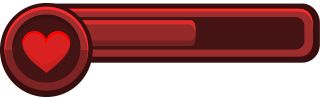
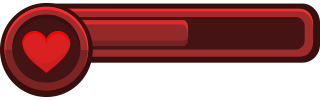
Jump. Variables. Damage. Health. Gordimetro

Changed region(s): [[0.5625, 0.18, 0.625, 0.48], [0.9688, 0.24, 1.0, 0.3], [0.9688, 0.15, 1.0, 0.21]]

diff --git a/js/script.js b/js/script.js
@@ -77,12 +77,14 @@ addEventListener("keyup",(e)=>{
 
   // Jump (Space Bar)
   if(e.keyCode === 32){
-    characterY += 100;
     if(health > 50){
       playerState = 'run'
     } else {
       playerState = 'runFit'
     }
+    setTimeout(() => {
+      characterY += 100;
+    }, 300);
   }
 
   // Fire (Enter)
@@ -157,7 +159,7 @@ function characterAnimate(){
 
 // Enemies
 function generateEnemies(){
-  if(frames % 250 === 0 || frames % 550 === 0){
+  if(frames % 200 === 0 || frames % 400 === 0){
       
     let enemyY = Math.floor(Math.random() * (450 - 350)) + 350
     let randomEnemy = Math.floor(Math.random() * enemyType.length);
@@ -179,7 +181,7 @@ function drawEnemies(){
 
 // Sweets
 function generateSweets(){
-  if(frames % 250 === 0 || frames % 800 === 0){
+  if(frames % 300 === 0 || frames % 800 === 0){
       
     let candyY = Math.floor(Math.random() * (250 - 150)) + 150
     let randomSweet = Math.floor(Math.random() * sweetTye.length);
@@ -201,10 +203,10 @@ function drawSweets(){
 
 // Collision with Character
 function collision(item1){
-  return(characterX < item1.x + item1.width &&
+  return(characterX + 30 < item1.x + item1.width &&
     characterX + 85 > item1.x &&
     characterY < item1.y + item1.height &&
-    170 + characterY > item1.y)
+    200 + characterY > item1.y)
 }
 
 function enemyCollision(){
@@ -212,7 +214,7 @@ function enemyCollision(){
 
     if(collision(enemy)){
       enemies.splice(index_enemy,1)
-      health -= enemydamage
+      health -= enemy.damage
       enemyCollisionAudio.volume = 0.25
       enemyCollisionAudio.play()
     }
@@ -225,6 +227,7 @@ function sweetEaten(){
 
     if(collision(sweet)){
       sweets.splice(index_sweet,1)
+      health += sweet.calories
       score++
       yummyAudio.play()
     }
@@ -234,7 +237,7 @@ function sweetEaten(){
 // Character Power
 function generateKnife(){
   const knife = new Knife((characterX + 110), (characterY + 125));
-  knives.push(knife)
+  knives.push(knife);
 }
 
 function throwKnife(){
@@ -246,7 +249,7 @@ function throwKnife(){
       if(knife.collision(enemy)){
 
         if(enemy.life > 1) {
-          enemy.life -= knifedamage;
+          enemy.life -= knife.damage;
           knives.splice(index_knife,1)
 
         } else {
@@ -260,40 +263,66 @@ function throwKnife(){
 
 // HUD
 function drawHUD(){
-  if(health <= 100){
-    ctx.drawImage(health100,15,15,180,55);
+  if(health > 100){
+    health = 100;
+  }
+  
+  switch (health) {
+    case 100:
+      ctx.drawImage(health100,15,15,180,55);
+      break;
+    case 90:
+      ctx.drawImage(health90,15,15,180,55);
+    break;
+    case 80:
+      ctx.drawImage(health80,15,15,180,55);
+    break;
+    case 70:
+      ctx.drawImage(health70,15,15,180,55);
+    break;
+    case 60:
+      ctx.drawImage(health60,15,15,180,55);
+    break;
+    case 50:
+      ctx.drawImage(health50,15,15,180,55);
+    break;
+    case 40:
+      ctx.drawImage(health40,15,15,180,55);
+    break;
+    case 30:
+      ctx.drawImage(health30,15,15,180,55);
+    break;
+    case 20:
+      ctx.drawImage(health20,15,15,180,55);
+    break;
+    case 10:
+      ctx.drawImage(health10,15,15,180,55);
+    break;
+    case 0:
+      ctx.drawImage(health0,15,15,180,55);
+    break;
+    default: ctx.drawImage(health100,15,15,180,55);
+      break;
   }
 
-  if(health <= 75){
-    ctx.drawImage(health75,15,15,180,55);
-  }
-
-  if(health <= 50){
-    ctx.drawImage(health50,15,15,180,55);
-  }
-
-  if(health <= 25){
-    ctx.drawImage(health25,15,15,180,55);
-  }
-
-  if(health <= 0){
-    ctx.drawImage(health0,15,15,180,55);
-  }
-
-  ctx.font= '12px Arial';
+  ctx.font= '11px Arial';
   ctx.fillStyle = 'red';
-  ctx.fillText(`Fat-O-Meter: ${health}%`, 87, 63);
+  ctx.fillText(`GORDIMETRO: ${health}%`, 78, 62);
 
   // Score
-  ctx.font= '24px sans-serif';
+  ctx.globalAlpha = 0.15;
+  ctx.fillStyle = 'white';
+  ctx.fillRect(855,15,305,35);
+  ctx.globalAlpha = 1;
+  ctx.font= '23px sans-serif';
   ctx.fillStyle = 'black';
   ctx.fillText(`Score: ${score}`, 1052,42);
   ctx.fillStyle = 'yellow';
   ctx.fillText(`Score: ${score}`, 1050,40);
   ctx.fillStyle = 'white';
-  ctx.fillText(`High Score: ${highscore}`, 851,42);
+  ctx.fillText(`High Score: ${highscore}`, 871,42);
   ctx.fillStyle = 'red';
-  ctx.fillText(`High Score: ${highscore}`, 850,40);
+  ctx.fillText(`High Score: ${highscore}`, 870,40);
 }
 
 // Game Functions

diff --git a/js/class.js b/js/class.js
@@ -39,8 +39,9 @@ class Enemy {
         this.width = 50;
         this.height = 50;
         this.life = 3;
-        this.image = new Image()
-        this.image.src = this.enemyType(this.tipo)
+        this.damage = 30;
+        this.image = new Image();
+        this.image.src = this.enemyType(this.tipo);
     }
 
     draw(){
@@ -51,27 +52,27 @@ class Enemy {
     enemyType(tipo){
         switch (tipo) {
             case 'apple':
-                return '../img/enemies/apple.png'
+                return 'img/enemies/apple.png'
             
             case 'cherry':
-                return '../img/enemies/cherry.png'
+                return 'img/enemies/cherry.png'
 
             case 'lettuce':
-                return '../img/enemies/lettuce.png'
+                return 'img/enemies/lettuce.png'
             
             case 'onion':
-                return '../img/enemies/onion.png'
+                return 'img/enemies/onion.png'
             
             case 'orange':
-                return '../img/enemies/orange.png'
+                return 'img/enemies/orange.png'
                         
             case 'eggplant':
-                return '../img/enemies/eggplant.png'
+                return 'img/enemies/eggplant.png'
             
             case 'tomato':
-                return '../img/enemies/tomato.png'
+                return 'img/enemies/tomato.png'
 
-            default: return '../img/enemies/tomato.png'
+            default: return 'img/enemies/tomato.png'
         }
     }
 }
@@ -83,6 +84,7 @@ class Sweet {
         this.y = y;
         this.width = 50;
         this.height = 50;
+        this.calories = 10;
         this.image = new Image()
         this.image.src = this.sweetType(this.tipo)
     }
@@ -96,24 +98,24 @@ class Sweet {
     sweetType(tipo){
         switch (tipo) {
             case 'cake':
-                return '../img/sweet/cake.png'
+                return 'img/sweet/cake.png'
             
             case 'chocolate':
-                return '../img/sweet/chocolate.png'
+                return 'img/sweet/chocolate.png'
 
             case 'donutSprinkles':
-                return '../img/sweet/donut-sprinkles.png'
+                return 'img/sweet/donut-sprinkles.png'
             
             case 'chocolateDonut':
-                return '../img/sweet/chocolate-donut.png'
+                return 'img/sweet/chocolate-donut.png'
             
             case 'ironHack':
-                return '../img/sweet/ironhack-sweet.png'
+                return 'img/sweet/ironhack-sweet.png'
             
             case 'lollipop':
-                return '../img/sweet/lollipop.png'
+                return 'img/sweet/lollipop.png'
                         
-            default: return '../img/sweet/chocolate-donut.png'
+            default: return 'img/sweet/chocolate-donut.png'
         }
     }
 }
@@ -124,8 +126,9 @@ class Knife {
         this.y = y;
         this.width = 64;
         this.height = 22;
+        this.damage = 1;
         this.image = new Image()
-        this.image.src = '../img/knife.png'
+        this.image.src = 'img/knife.png'
     }
 
     draw(){

diff --git a/js/variables.js b/js/variables.js
@@ -9,7 +9,6 @@ const canvasH = canvas.height;
 let gameSpeed = 5; // Background speed
 let frames = 0;
 let requestID;
-let gravity = 0.9; // * ¿?
 
 // Sweets
 let sweets = [];
@@ -18,14 +17,12 @@ let sweetTye = ['cake', 'chocolate', 'donutSprinkles', 'chocolateDonut', 'ironHa
 // Enemies 
 let enemies = [];
 let enemyType = ['apple', 'cherry', 'lettuce', 'onion', 'orange', 'eggplant', 'tomato']
-let enemydamage = 25;
 
 // Character
 let health = 100;
 let score = 0;
 let highscore = localStorage.getItem('highscore',0)
 let characterSpeed = 4;
-let knifedamage = 1;
 let knives = [];
 let characterX = 100;
 let characterY = 0;
@@ -34,11 +31,9 @@ let characterY = 0;
 const spriteWidth = 175;
 const spriteHeight = 250;
 
+// Keyboard A&D pressed
 let left = false;
 let right = false;
-
-const characterImage = new Image();
-characterImage.src = '../img/sprite-character.png';
 
 // Character State
 let playerState = 'stand'
@@ -170,7 +165,8 @@ const animationStates = [
     },
 ];
 
-// Audio
+// AUDIO
+
 // Main theme
 const mainAudio = new Audio()
 mainAudio.src = 'audio/maintheme.mp3'
@@ -192,6 +188,12 @@ enemyCollisionAudio.src = 'audio/ohoh.mp3'
 const gameOverAudio = new Audio()
 gameOverAudio.src = 'audio/gameover.mp3'
 
+// IMAGES
+
+// Character Sprite
+const characterImage = new Image();
+characterImage.src = 'img/sprite-character.png';
+
 // Background Images (Layers)
 const bg1 = new Image();
 bg1.src = 'img/layer1.png';
@@ -208,16 +210,28 @@ bg6.src = 'img/layer6.png';
 
 // Health HUD
 const health100 = new Image();
-health100.src = '../img/health/health100.png';
-const health75 = new Image();
-health75.src = '../img/health/health75.png';
+health100.src = 'img/health/health100.png';
+const health90 = new Image();
+health90.src = 'img/health/health90.png';
+const health80 = new Image();
+health80.src = 'img/health/health80.png';
+const health70 = new Image();
+health70.src = 'img/health/health70.png';
+const health60 = new Image();
+health60.src = 'img/health/health60.png';
 const health50 = new Image();
-health50.src = '../img/health/health50.png';
-const health25 = new Image();
-health25.src = '../img/health/health25.png';
+health50.src = 'img/health/health50.png';
+const health40 = new Image();
+health40.src = 'img/health/health40.png';
+const health30 = new Image();
+health30.src = 'img/health/health30.png';
+const health20 = new Image();
+health20.src = 'img/health/health20.png';
+const health10 = new Image();
+health10.src = 'img/health/health10.png';
 const health0 = new Image();
-health0.src = '../img/health/health0.png';
+health0.src = 'img/health/health0.png';
 
 // GameOver Image
 const imgGameOver = new Image();
-imgGameOver.src = '../img/gameover.png'
+imgGameOver.src = 'img/gameover.png'

diff --git a/index.html b/index.html
@@ -8,7 +8,7 @@
     <!-- Tailwind CSS -->
     <link href="https://unpkg.com/tailwindcss@^2/dist/tailwind.min.css" rel="stylesheet">
     <!-- CSS Styles -->
-    <link rel="stylesheet" href="../styles/style.css">
+    <link rel="stylesheet" href="styles/style.css">
 </head>
 <body>
     <div>
@@ -27,8 +27,8 @@
 
     </div>
     <!--Scripts JS-->
-    <script src='../js/variables.js'></script>
-    <script src='../js/class.js'></script>
-    <script src='../js/script.js'></script>
+    <script src='js/variables.js'></script>
+    <script src='js/class.js'></script>
+    <script src='js/script.js'></script>
 </body>
 </html>
